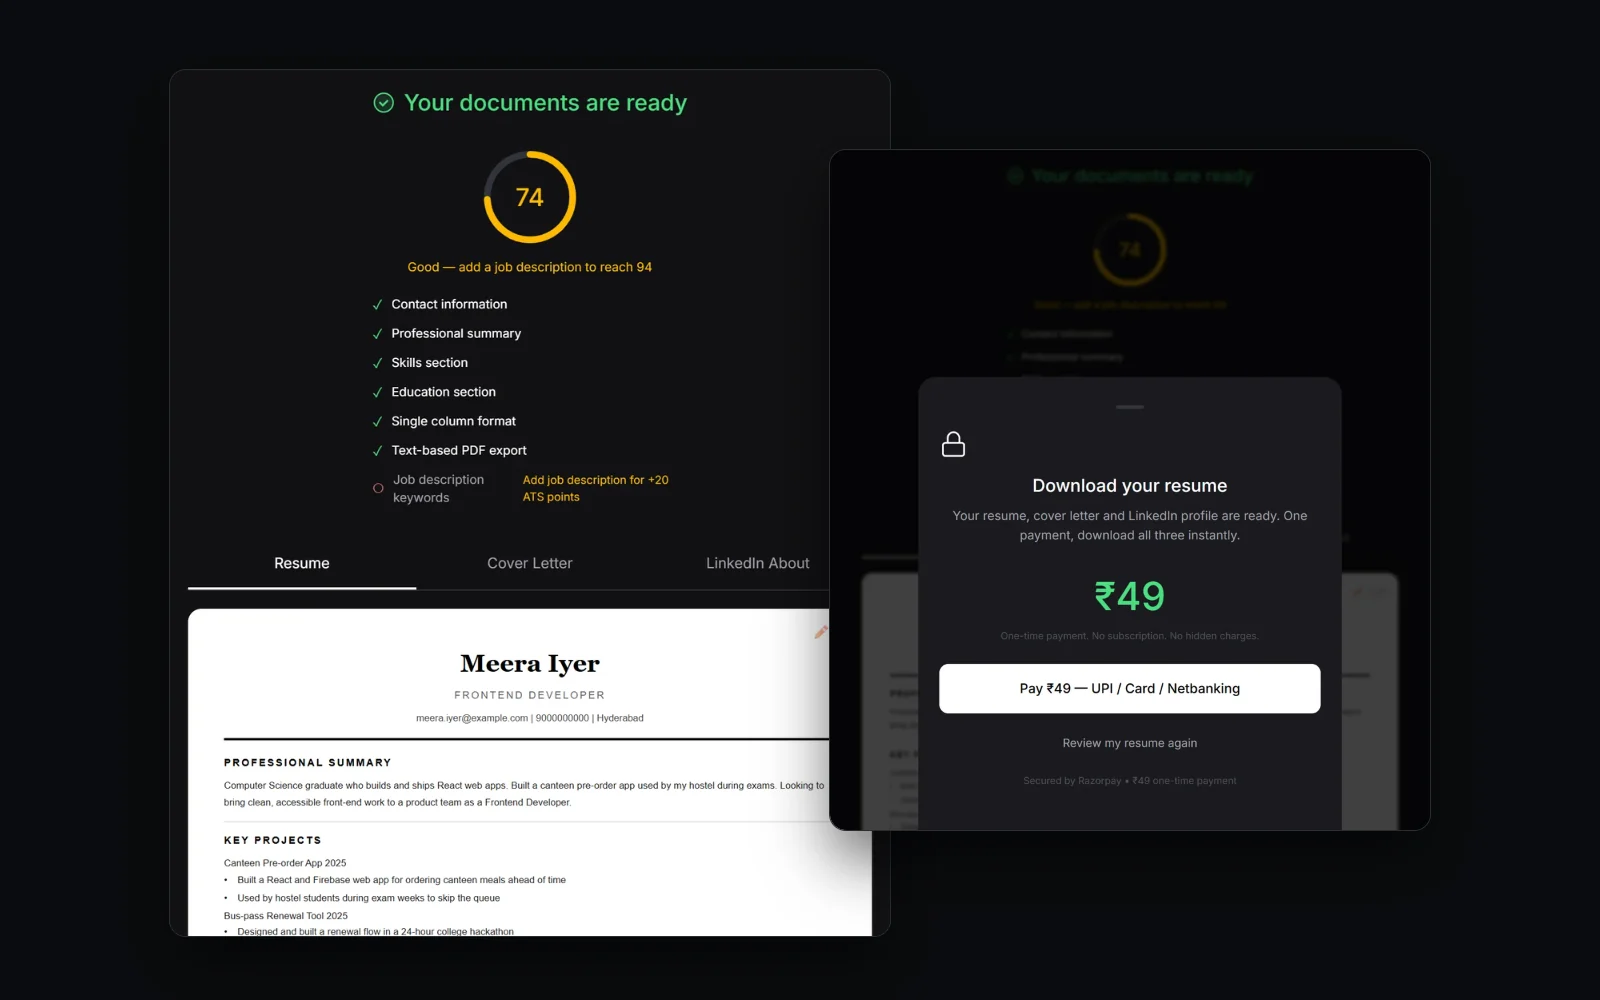
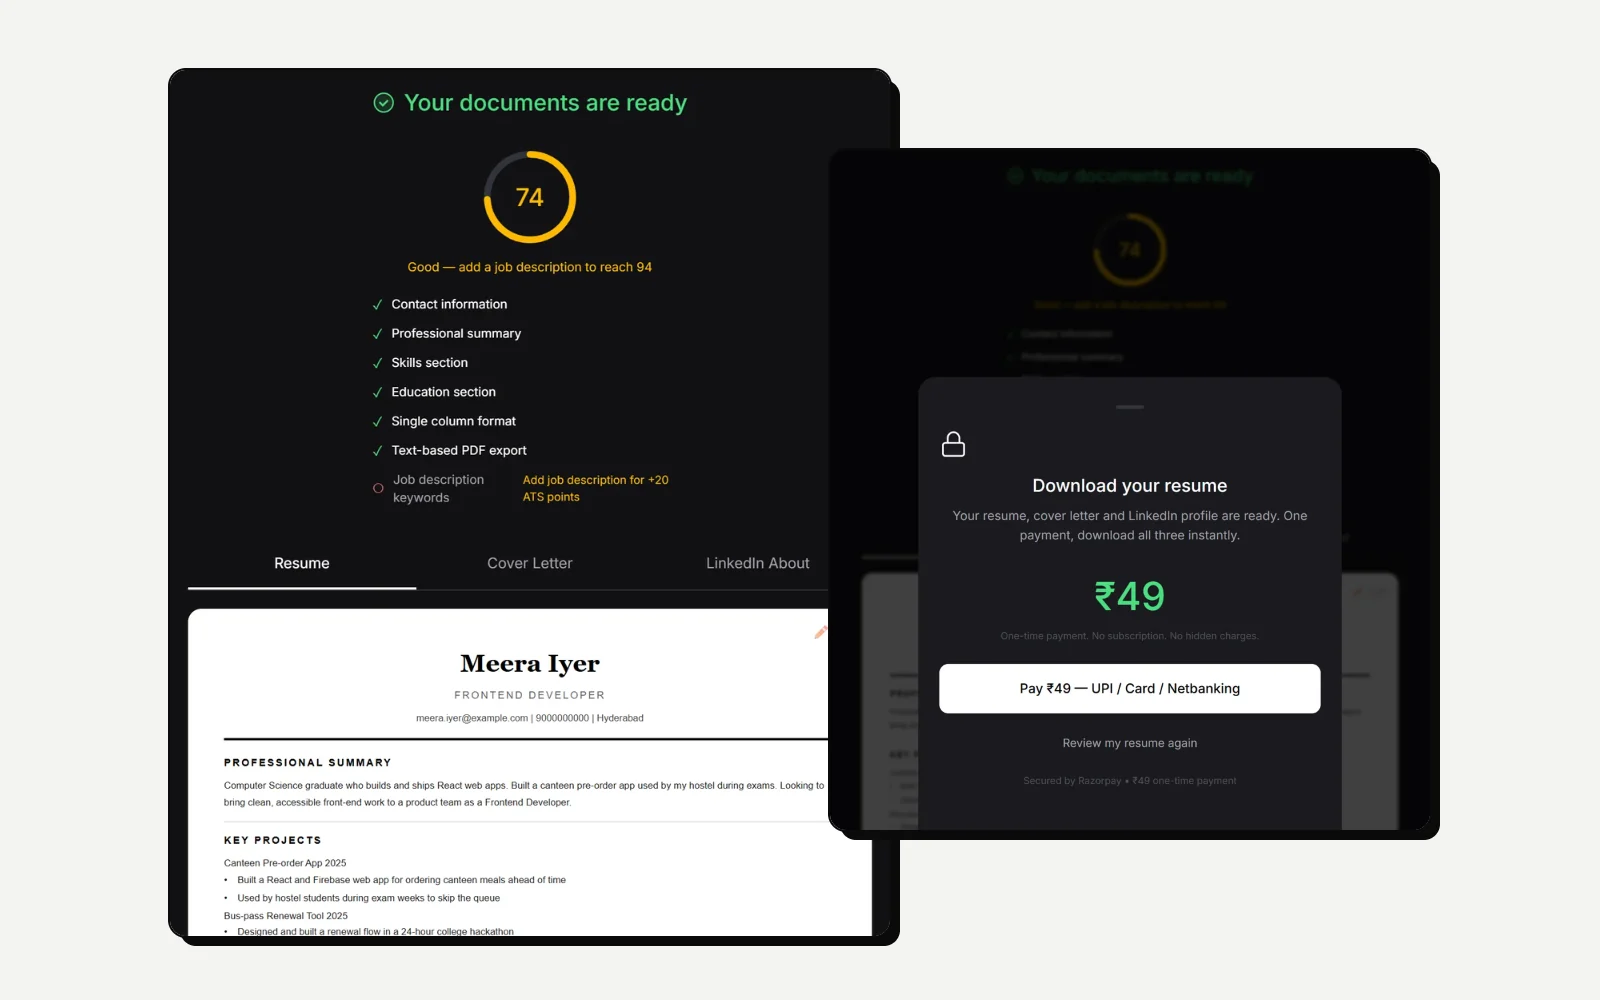
Switch the portfolio to a light theme after CRED's tokens
Uses the CRED tokens from designmd.co: white surfaces, black hairline
borders and electric blue (#0000ee) as the one brand colour. Text is
near-black, muted text #55555c (7.4:1), and award gold darkens to
#8a6a12 (5.3:1) so it stays readable on white.

- Cards are flat at rest; hover lifts them onto a hard black offset
  shadow instead of a blue glow. Primary buttons are solid blue with
  the same hover.
- The background grid uses a faint line, not the black border colour.
- Hardcoded dark-theme colours fixed: near-white brand hovers on the
  social and tool chips, the hero photo shadow, the gold badge glow,
  and the light-green status text.
- Case-study and Lab covers and the share images are re-rendered on
  a light stage with black frames.

The old dark tokens and the unused [data-theme="light"] block are
replaced; there is one theme.

diff --git a/src/app/globals.css b/src/app/globals.css
@@ -1,45 +1,43 @@
 @import "tailwindcss";
 
 /* ============================================================
-   THEME — dark premium. Blue accent, gold for awards.
-   Serif display headings, sans body, mono labels.
+   THEME — light, after CRED's tokens: white surfaces, black
+   hairline borders, electric blue (#0000ee) as the one brand
+   colour, gold kept for awards. Serif display, sans body, mono
+   labels. Hover is a hard offset shadow, not a glow.
    ============================================================ */
-/* ---- DARK (default) ---- elevation from lighter surfaces + soft shadow + top sheen */
 :root {
   /* neutrals */
-  --background: #0a0a0c;
-  --surface: #141519; /* cards sit ABOVE bg */
-  --surface-2: #1c1e24;
-  --foreground: #f4f4f2;
-  --muted: #9196a1;
-  --border: #282a31;
+  --background: #ffffff;
+  --surface: #ffffff;
+  --surface-2: #f3f3f1; /* quiet fill: inputs, tags, highlighted rows */
+  --foreground: #0a0a0a;
+  --muted: #55555c; /* 7.4:1 on white */
+  --border: #0a0a0a; /* CRED: black hairlines */
   /* brand */
-  --accent: #5b82ff; /* readable blue on dark (family of #1847c7) */
-  --accent-deep: #1847c7;
+  --accent: #0000ee;
+  --accent-deep: #0000b8;
   --accent-ink: #ffffff;
-  --gold: #d4b25e;
-  /* display gradient */
-  --grad-from: #ffffff;
-  --grad-to: #aeb1ba;
-  /* ambient glow */
-  --glow-a: rgba(91, 130, 255, 0.1);
-  --glow-b: rgba(212, 178, 94, 0.06);
-  /* elevation */
-  --card-hi: rgba(255, 255, 255, 0.055); /* top-edge sheen (lit from above) */
-  --shadow-card: 0 1px 2px rgba(0, 0, 0, 0.4), 0 6px 16px rgba(0, 0, 0, 0.34),
-    0 20px 44px -12px rgba(0, 0, 0, 0.55),
-    0 0 50px -18px rgba(91, 130, 255, 0.22);
-  --shadow-lift: 0 2px 6px rgba(0, 0, 0, 0.5), 0 14px 30px rgba(0, 0, 0, 0.5),
-    0 34px 66px -12px rgba(0, 0, 0, 0.62);
+  --gold: #8a6a12; /* 5.3:1 on white */
+  /* display gradient (kept near-solid on light) */
+  --grad-from: #0a0a0a;
+  --grad-to: #3a3a40;
+  /* ambient glow, barely there */
+  --glow-a: rgba(0, 0, 238, 0.035);
+  --glow-b: rgba(138, 106, 18, 0.03);
+  /* elevation: flat at rest, a hard offset shadow when lifted */
+  --card-hi: transparent;
+  --shadow-card: none;
+  --shadow-lift: 6px 6px 0 0 var(--foreground);
   /* glass */
-  --glass-bg: rgba(255, 255, 255, 0.04);
-  --glass-border: rgba(255, 255, 255, 0.1);
-  --glass-hi: rgba(255, 255, 255, 0.14);
+  --glass-bg: rgba(255, 255, 255, 0.86);
+  --glass-border: var(--border);
+  --glass-hi: transparent;
   /* radii */
-  --radius-sm: 0.625rem;
-  --radius: 0.9rem;
-  --radius-lg: 1.15rem;
-  --radius-xl: 1.5rem;
+  --radius-sm: 0.5rem;
+  --radius: 0.75rem;
+  --radius-lg: 0.875rem;
+  --radius-xl: 1.25rem;
   /* one motion language */
   --ease-out: cubic-bezier(0.16, 1, 0.3, 1);
   --ease-standard: cubic-bezier(0.4, 0, 0.2, 1);
@@ -47,32 +45,7 @@
   --dur-2: 220ms;
   --dur-3: 400ms;
   --dur-4: 600ms;
-}
-
-/* ---- LIGHT ---- off-white page + pure-white cards + real layered soft shadows (Stripe/Razorpay) */
-:root[data-theme="light"] {
-  --background: #f4f2ee; /* warm paper off-white (Antigravity/Razorpay feel) */
-  --surface: #ffffff; /* cards are pure white and lift off the warm page */
-  --surface-2: #ebe7df;
-  --foreground: #14151a; /* warm near-black ink */
-  --muted: #6b6862;
-  --border: #e7e2d8;
-  --accent: #1847c7;
-  --accent-deep: #123aa8;
-  --accent-ink: #ffffff;
-  --gold: #927012;
-  --grad-from: #14151a;
-  --grad-to: #4a4a52;
-  --glow-a: rgba(24, 71, 199, 0.05);
-  --glow-b: rgba(201, 168, 76, 0.06);
-  --card-hi: rgba(255, 255, 255, 0.9);
-  --shadow-card: 0 1px 2px rgba(16, 24, 40, 0.05), 0 4px 10px rgba(16, 24, 40, 0.06),
-    0 16px 40px -12px rgba(16, 24, 40, 0.12);
-  --shadow-lift: 0 2px 6px rgba(16, 24, 40, 0.06), 0 10px 24px rgba(16, 24, 40, 0.1),
-    0 30px 60px -14px rgba(16, 24, 40, 0.2);
-  --glass-bg: rgba(255, 255, 255, 0.72);
-  --glass-border: rgba(16, 24, 40, 0.07);
-  --glass-hi: rgba(255, 255, 255, 0.9);
+  color-scheme: light;
 }
 
 @theme inline {
@@ -204,35 +177,28 @@ p {
   text-decoration-thickness: 3px;
 }
 
-/* Blue gradient text (matches the hero blue shade) */
+/* Brand-blue display text */
 .text-accent-gradient {
-  background: linear-gradient(180deg, #8aa8ff 0%, #3b6ef5 100%);
-  -webkit-background-clip: text;
-  background-clip: text;
-  color: transparent;
+  color: var(--accent);
 }
 
-/* Primary action — blue gradient with glow */
+/* Primary action — solid brand blue; lifts onto a hard black shadow on hover */
 .btn-gradient {
-  background: linear-gradient(135deg, #6f93ff 0%, #1f52d6 100%);
-  color: #fff;
-  box-shadow:
-    0 6px 20px -6px rgba(91, 130, 255, 0.55),
-    inset 0 1px 0 rgba(255, 255, 255, 0.25);
+  background: var(--accent);
+  color: var(--accent-ink);
+  border: 1px solid var(--foreground);
+  box-shadow: 0 0 0 0 var(--foreground);
   transition:
     transform var(--dur-2) var(--ease-out),
-    box-shadow var(--dur-2) var(--ease-out),
-    filter var(--dur-2) var(--ease-out);
+    box-shadow var(--dur-2) var(--ease-out);
 }
 .btn-gradient:hover {
-  transform: scale(1.03);
-  filter: brightness(1.06);
-  box-shadow:
-    0 10px 32px -6px rgba(91, 130, 255, 0.7),
-    inset 0 1px 0 rgba(255, 255, 255, 0.3);
+  transform: translate(-2px, -2px);
+  box-shadow: 4px 4px 0 0 var(--foreground);
 }
 .btn-gradient:active {
-  transform: scale(0.98);
+  transform: translate(0, 0);
+  box-shadow: 0 0 0 0 var(--foreground);
 }
 
 .card {
@@ -277,11 +243,8 @@ p {
     border-color var(--dur-2) var(--ease-standard);
 }
 .lift:hover {
-  transform: translateY(-5px);
-  box-shadow:
-    var(--shadow-lift),
-    0 0 60px -14px rgba(91, 130, 255, 0.5);
-  border-color: rgba(91, 130, 255, 0.35);
+  transform: translate(-3px, -3px);
+  box-shadow: var(--shadow-lift);
 }
 
 /* Soft always-on blue product glow (behind featured/product cards) */
@@ -302,13 +265,14 @@ p {
   -webkit-mask-composite: xor;
   mask-composite: exclude;
   pointer-events: none;
-  opacity: 0.7;
+  opacity: 0;
 }
 
 .grid-lines {
+  /* a faint grid, not the black hairline used for borders */
   background-image:
-    linear-gradient(to right, var(--border) 1px, transparent 1px),
-    linear-gradient(to bottom, var(--border) 1px, transparent 1px);
+    linear-gradient(to right, rgb(10 10 10 / 9%) 1px, transparent 1px),
+    linear-gradient(to bottom, rgb(10 10 10 / 9%) 1px, transparent 1px);
   background-size: 3.5rem 3.5rem;
   mask-image: radial-gradient(ellipse 80% 60% at 50% 0%, black 40%, transparent 75%);
 }

diff --git a/src/components/ToolsBand.tsx b/src/components/ToolsBand.tsx
@@ -37,7 +37,7 @@ type Tool = { name: string; icon: ReactNode; color: string };
 const tools: Tool[] = [
   { name: "Antigravity", icon: <Rocket className="h-5 w-5 shrink-0" strokeWidth={1.6} />, color: "#4285F4" },
   { name: "Claude Code", icon: <Brand d={BRAND.claude} />, color: "#D97757" },
-  { name: "Cursor", icon: <Brand d={BRAND.cursor} />, color: "#e5e7eb" },
+  { name: "Cursor", icon: <Brand d={BRAND.cursor} />, color: "#0a0a0a" },
   { name: "Figma", icon: <Brand d={BRAND.figma} />, color: "#F24E1E" },
   { name: "Gemini", icon: <Brand d={BRAND.gemini} />, color: "#9a7cff" },
   { name: "OpenAI", icon: <Sparkles className="h-5 w-5 shrink-0" strokeWidth={1.6} />, color: "#19C37D" },
@@ -46,7 +46,7 @@ const tools: Tool[] = [
   { name: "Lovable", icon: <Heart className="h-5 w-5 shrink-0" strokeWidth={1.6} />, color: "#F4468A" },
   { name: "Kiro", icon: <Ghost className="h-5 w-5 shrink-0" strokeWidth={1.6} />, color: "#8B5CF6" },
   { name: "Adobe", icon: <Brand d={BRAND.adobe} />, color: "#EC1C24" },
-  { name: "Product thinking", icon: <Brain className="h-5 w-5 shrink-0" strokeWidth={1.6} />, color: "#c9a84c" },
+  { name: "Product thinking", icon: <Brain className="h-5 w-5 shrink-0" strokeWidth={1.6} />, color: "#8a6a12" },
 ];
 
 function Chip({ t }: { t: Tool }) {

diff --git a/src/components/SocialLinks.tsx b/src/components/SocialLinks.tsx
@@ -24,13 +24,13 @@ export function SocialLinks({ className = "" }: { className?: string }) {
   const s = profile.socials;
   const items: Social[] = [
     { label: "LinkedIn", href: s.linkedin, icon: <Svg d={ICON.linkedin} />, color: "#0A66C2" },
-    { label: "X", href: s.x, icon: <Svg d={ICON.x} />, color: "#e7e7ea" },
-    { label: "GitHub", href: s.github, icon: <Svg d={ICON.github} />, color: "#e7e7ea" },
+    { label: "X", href: s.x, icon: <Svg d={ICON.x} />, color: "#0a0a0a" },
+    { label: "GitHub", href: s.github, icon: <Svg d={ICON.github} />, color: "#0a0a0a" },
     {
       label: "Contra",
       href: s.contra,
       icon: <span className="text-[13px] font-bold leading-none">Ct</span>,
-      color: "#e7e7ea",
+      color: "#0a0a0a",
     },
   ].filter((i) => i.href);
 

diff --git a/src/components/HeroPhotos.tsx b/src/components/HeroPhotos.tsx
@@ -31,7 +31,7 @@ function Tile({
       className={`relative ${className}`}
       style={{ transform: `rotate(${rotate}deg)` }}
     >
-      <div className="relative h-full w-full overflow-hidden rounded-2xl border border-border bg-surface shadow-[0_16px_36px_-12px_rgba(0,0,0,0.7)]">
+      <div className="relative h-full w-full overflow-hidden rounded-2xl border border-border bg-surface shadow-[5px_5px_0_0_#0a0a0a]">
         {/* placeholder */}
         <div className="absolute inset-0 grid place-items-center bg-gradient-to-br from-accent/12 via-transparent to-transparent">
           <div className="grid-lines absolute inset-0 opacity-20" />

diff --git a/src/components/Hero.tsx b/src/components/Hero.tsx
@@ -82,7 +82,7 @@ export function Hero() {
               transition={{ duration: 0.6, delay: 0.28, ease }}
               className="mt-8"
             >
-              <span className="inline-flex items-center gap-2 rounded-full border border-gold/40 bg-gold/10 px-4 py-2 text-sm font-medium text-gold shadow-[0_0_30px_-10px_rgba(201,168,76,0.5)]">
+              <span className="inline-flex items-center gap-2 rounded-full border border-gold/40 bg-gold/10 px-4 py-2 text-sm font-medium text-gold">
                 <Award className="h-4 w-4" strokeWidth={2} />
                 AI Excellence Award — PIPRA Solutions, 2025
               </span>

diff --git a/src/components/CaseSections.tsx b/src/components/CaseSections.tsx
@@ -570,7 +570,7 @@ function Block({ section: s, accent, editorial }: { section: CaseSection; accent
                       it.tone === "bad"
                         ? "text-red-400"
                         : it.tone === "good"
-                          ? "text-[#4ade80]"
+                          ? "text-[#15803d]"
                           : "text-muted"
                     }`}
                   >
